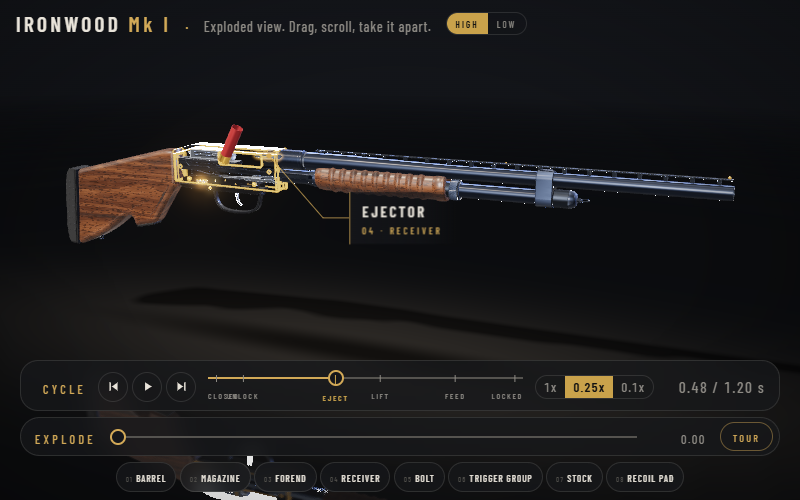
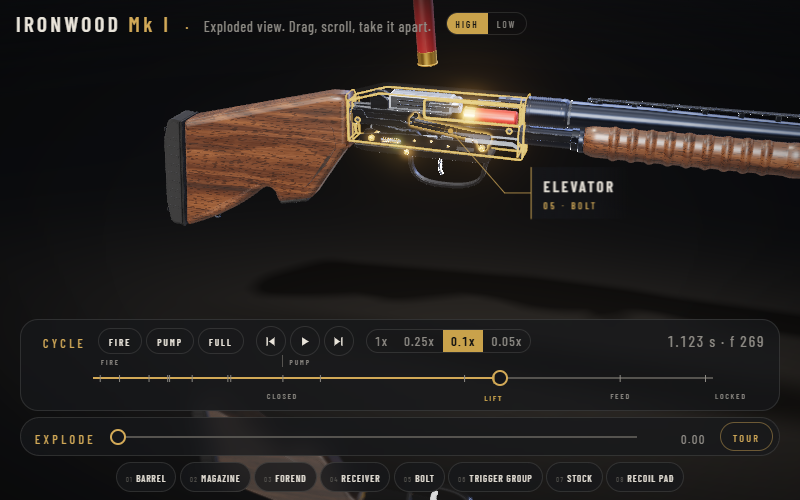
5. README: hero re-shot with the spent shell mid-air, fire + pump clock, new cycle controls and tour; job file tour and cycle lines updated

diff --git a/README.md b/README.md
@@ -1,21 +1,21 @@
 # Ironwood Mk I
 
-![Ironwood Mk I mid-cycle: the spent shell leaving the ejection port](docs/hero.png)
+![Ironwood Mk I mid-pump: the spent shell in the air after the shot, receiver in x-ray](docs/hero.png)
 
 An interactive 3D exploded view of a walnut-stocked pump-action shotgun, built entirely in code with three.js. No models or textures are loaded: every part, material and shader is procedural, and the built page is one self-contained HTML file.
 
 **Live:** https://simsi2027.github.io/ironwood/
 
-The pump cycle is a hand-keyed animation of one parameter: the forend, action bars and bolt run back 7.5 cm, the spent shell leaves through the side port, a fresh shell backs out of the magazine tube and rises on the elevator, and the forend pushes forward to chamber it.
+Firing and pumping are one hand-keyed clock t in two segments. FIRE (0-0.30): the trigger rotates back, the hammer falls on the firing pin, the primer sparks, the hull glows, the wad and shot column run the bore, the muzzle flashes (with a 0.1 s light, a 60-pellet shot cloud and a smoke puff) and the gun recoils 1.5 cm with a 2 degree muzzle rise. PUMP (0.30-1): the forend, action bars and bolt run back 7.5 cm, re-cocking the hammer; the shell pivots out of the port on its sill, flies a 30 x 12 cm arc, bounces, rolls and fades (spent only if FIRE ran, clean otherwise); a fresh shell rises on the elevator and is chambered; the trigger resets as the bolt locks. X-ray and the camera follow the phase.
 
 ## Controls
 
 - **Drag** to orbit, **scroll** or pinch to zoom.
 - **Explode** slider takes the rifle apart and puts it back together.
 - **Hover** a part (or **tap** on touch) to see its name and assembly. A tap pins the card, and a tap on empty space clears it.
-- **Cycle** panel: scrub the timeline or press play (the ticks name each stage: Closed, Unlock, Eject, Lift, Feed, Locked), step with the arrow buttons, and pick 1x, 0.25x or 0.1x speed. On a phone the panel is one row; the chevron opens the steps, ticks and speeds.
-- **Drag the forend** along the barrel to pump it by hand (orbit pauses while you hold it).
-- **Tour** plays a guided camera sequence. Any input hands control back to you.
+- **Cycle** panel: **Fire** plays 0-0.30 at 0.1x, **Pump** plays 0.30-1, **Full** plays both. One scrubber split into the FIRE and PUMP segments (the active one widens and shows its tick labels); play/pause, step one frame (1/240 s) with the arrow buttons, speeds 1x, 0.25x, 0.1x, 0.05x; the readout shows seconds and the frame number. The camera follows the phase until you orbit. On a phone the panel is one row (Fire, Pump, Full, scrubber, readout); the chevron opens play, steps, ticks and speeds.
+- **Drag the forend** along the barrel to scrub the PUMP segment by hand (orbit pauses while you hold it).
+- **Tour** plays a 24 s guided sequence (the FULL clock at 0.25x, then each assembly, explode, reassemble). Any input hands control back to you.
 
 ## Credits
 
